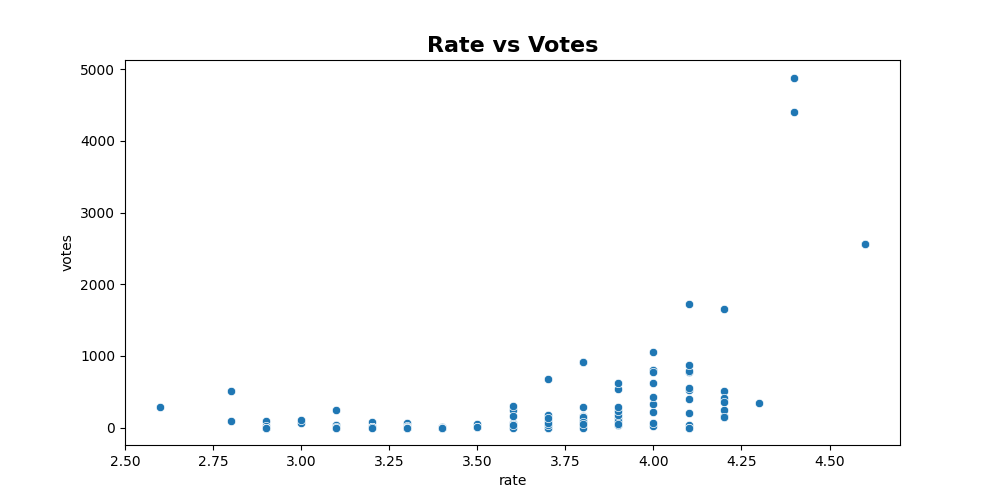
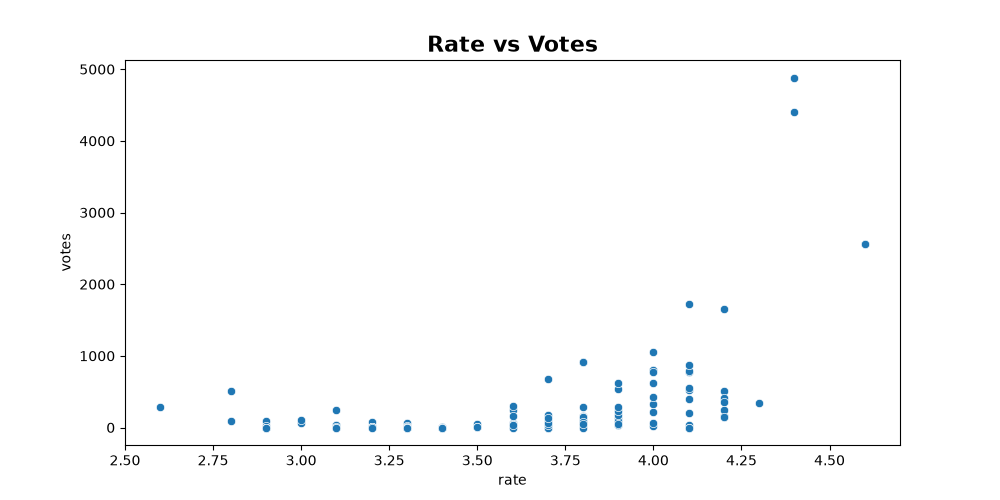
Adding README.md file

diff --git a/projects/Zomato Analysis/Zomato.py b/projects/Zomato Analysis/Zomato.py
@@ -27,4 +27,3 @@ sns.scatterplot(x="rate", y="votes", data=df)
 plt.title("Rate vs Votes", fontweight="bold", size=16)
 plt.savefig("Restraunt_Rating.png")
 plt.show()
-

diff --git a/projects/Zomato Analysis/README.md b/projects/Zomato Analysis/README.md
@@ -1,0 +1,30 @@
+# Zomato Data Analysis & Visualization
+
+An exploratory data analysis (EDA) script built with Python to clean and visualize restaurant trends from the Zomato dataset.
+
+---
+
+## Overview
+
+This project cleans restaurant rating data and generates key visual insights into:
+- The distribution of restaurant service types (`listed_in(type)`).
+- The correlation between overall ratings and user vote counts (`rate` vs `votes`).
+
+---
+
+## Features
+
+- **Column Cleaning:** Trims whitespace from dataset headers for consistent column access.
+- **Rating Normalization:** Strips denominator formatting (e.g., converting `"4.1/5"` to `4.1` float).
+- **Data Visualizations:**
+  - Distribution count plot of restaurant types.
+  - Scatter plot analyzing user engagement (votes) versus rating scores.
+
+---
+
+## Prerequisites & Installation
+
+Ensure you have Python 3.8+ installed along with the required libraries:
+
+```bash
+pip install numpy pandas matplotlib seaborn
